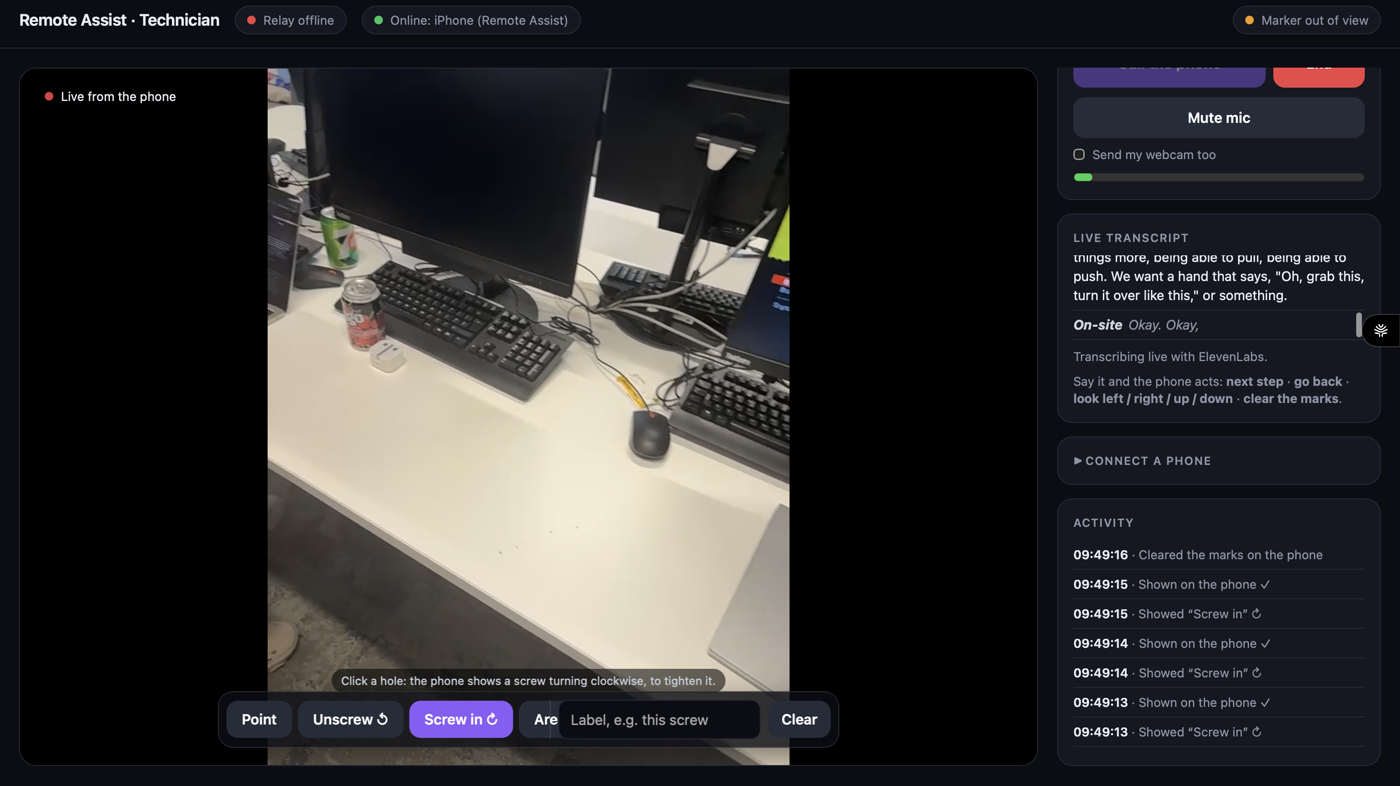
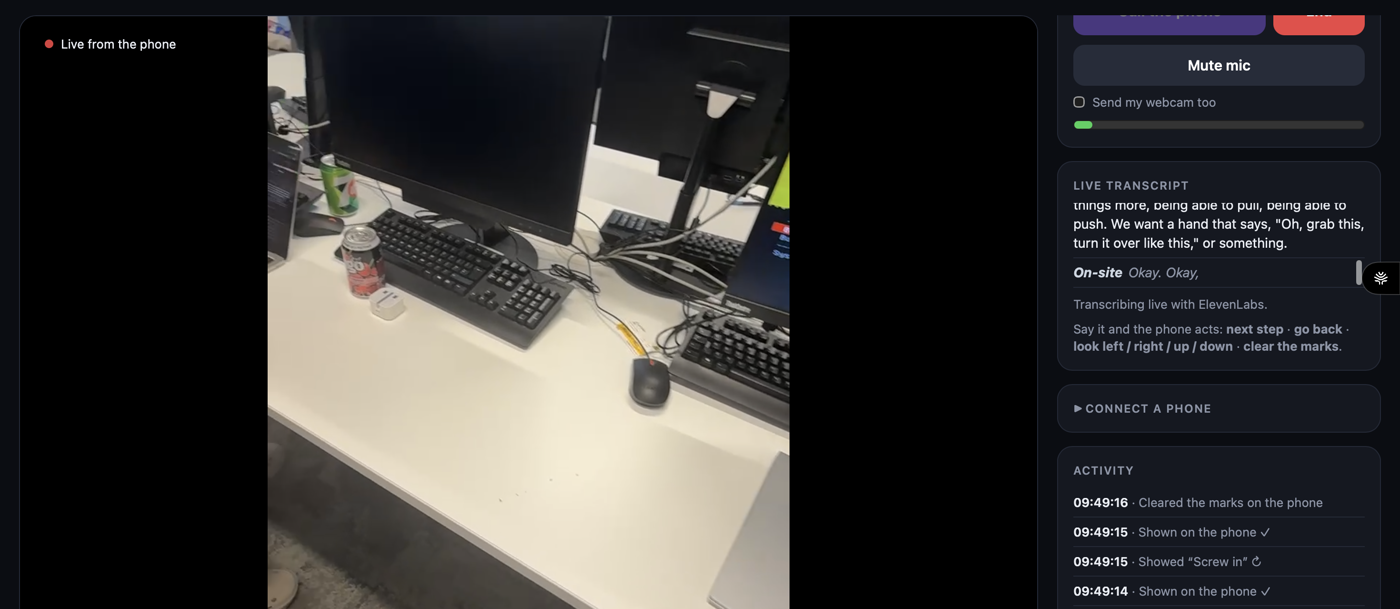
Crop the console pictures and add the 16 Nov live call

diff --git a/README.md b/README.md
@@ -52,8 +52,8 @@ Real screenshots from our own tests on 15 and 16 November.
 
 <p align="center">
   <img src="docs/media/console-live.png" alt="The technician console in a live call: the phone's camera, the toolbar with Point, Unscrew, Screw in, Area and Clear, the live transcript, and an activity log of marks shown on the phone" width="900"><br>
-  <sub><b>The expert's side of a live call</b> (15 Nov, before the rename): the phone's camera, the toolbar, the live
-  transcript, and each "Screw in" confirmed as shown on the phone.</sub>
+  <sub><b>The expert's side of a live call</b> (15 Nov): the phone's camera, the live transcript, and each "Screw in"
+  confirmed as shown on the phone.</sub>
 </p>
 
 ## 💡 Why
@@ -78,11 +78,11 @@ expert's hands in the room: their marks land on the real part, through the phone
 
 <table>
   <tr>
-    <td width="50%"><img src="docs/media/console-rig.png" alt="The technician console: relay and phone connected, a 3D scan beside the live view, and the rig's tick for step 4 in the activity log"></td>
+    <td width="50%"><img src="docs/media/console-call.png" alt="The technician console in a live call: the phone's camera on the left, the 3D scan beside it, the call controls and the live transcript on the right"></td>
     <td width="50%"><img src="docs/media/dashboard.png" alt="The expert dashboard: the 3D scan of the laptop, and a four-step SSD guide with every step done and step 4 checked by the rig"></td>
   </tr>
   <tr>
-    <td><sub><b>Technician console</b> (16 Nov). Relay and phone connected, a 3D scan beside the live view (before the call), and "Rig, step s4: ✓ correct" in the activity log.</sub></td>
+    <td><sub><b>Technician console in a live call</b> (16 Nov): the phone's camera, the 3D scan beside it, the call and the transcript.</sub></td>
     <td><sub><b>Expert dashboard.</b> The four-step SSD guide on the scan: all done on the phone, and step 4 checked by the rig (✓).</sub></td>
   </tr>
 </table>
@@ -130,7 +130,7 @@ to spot.
 - **Step 3** ("slide the SSD out") expects the bay to be empty. **Step 4** ("slide it back in") expects the SSD there.
 - The Nicla says what it sees over USB. The UNO Q compares that with the current step and sends ✓ or ✗ to the relay.
 - The console pops the verdict up and the phone's step card shows it. In our test, the rig's "step 4: ✓ correct"
-  reached the console and the dashboard (both screenshots above).
+  reached the console and the dashboard (the dashboard picture above shows "Rig ✓ step 4").
 
 This is a drawing of the rig we built. To build your own: [`hardware/README.md`](hardware/README.md).
 
